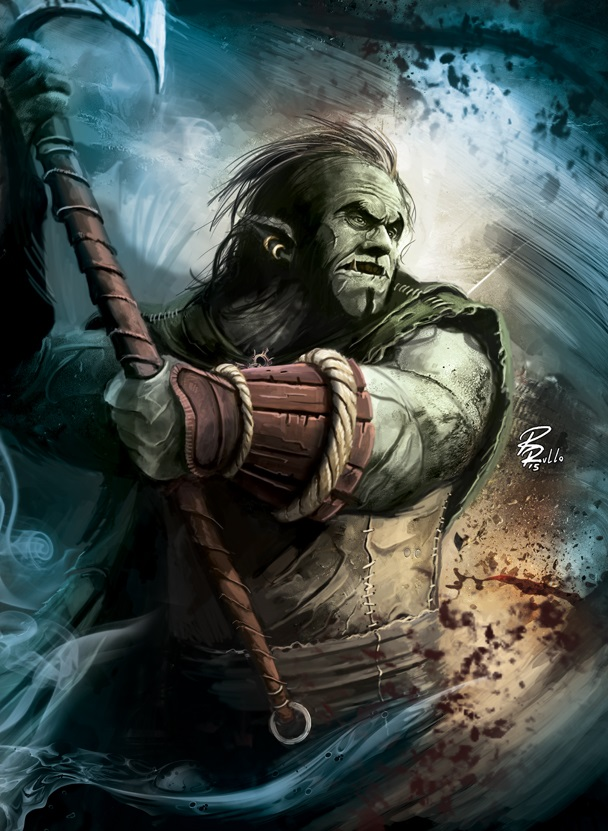
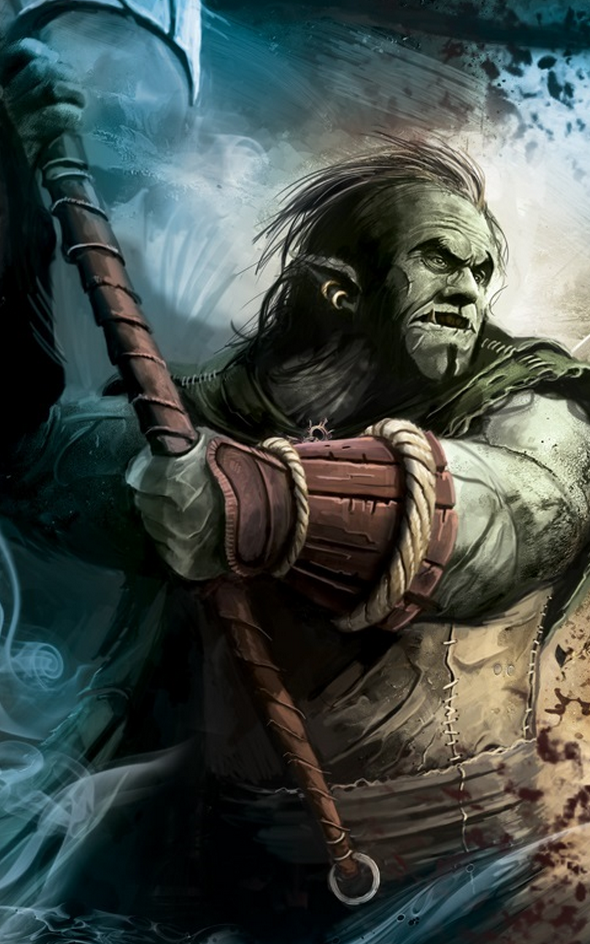
Modifying images for a best rendering

diff --git a/PooP/PooP.GUI/MainWindow.xaml b/PooP/PooP.GUI/MainWindow.xaml
@@ -4,7 +4,7 @@
     xmlns:x="http://schemas.microsoft.com/winfx/2006/xaml"
     xmlns:Interface="clr-namespace:Interface" x:Class="MainWindow"
     x:Name="InitWindow"
-    Title="Choix des races" Height="258.89" Width="292.366" ResizeMode="NoResize">
+    Title="Initialisation de la partie" Height="258.89" Width="290.366" ResizeMode="NoResize">
     <Window.Resources>
         <l:NegateBool x:Key="NegateBool"/>
         <l:ParameterRaceConverter x:Key="ParameterRaceConverter"/>
@@ -23,14 +23,16 @@
             <ColumnDefinition Width="145*"/>
             <ColumnDefinition Width="145*"/>
         </Grid.ColumnDefinitions>
+
+        <!-- Fot the best display, use 590/944 images -->
         <Image Name="ImRace1" Source="{Binding Player1RaceImage}">
             <Image.OpacityMask>
-                <SolidColorBrush Color="Black" Opacity="0.5"/>
+                <SolidColorBrush Color="Black" Opacity="0.6"/>
             </Image.OpacityMask>
         </Image>
         <Image Name="ImRace2" Grid.Column="1" RenderTransformOrigin="0.5,0.5" Source="{Binding Player2RaceImage}">
             <Image.OpacityMask>
-                <SolidColorBrush Color="Black" Opacity="0.5"/>
+                <SolidColorBrush Color="Black" Opacity="0.6"/>
             </Image.OpacityMask>
             <Image.RenderTransform>
                 <TransformGroup>
@@ -41,8 +43,9 @@
                 </TransformGroup>
             </Image.RenderTransform>
         </Image>
+
         <Label Content="Race J1" HorizontalAlignment="Left" VerticalAlignment="Top" FontWeight="Bold" Height="26" Width="52"/>
-        <RadioButton x:Name="Elf1" Content="Elf" HorizontalAlignment="Left" Margin="8,28,0,0" VerticalAlignment="Top" GroupName="Race1" IsEnabled="{Binding IsChecked, Converter={StaticResource NegateBool}, ElementName=Elf2}" Height="16" Width="66" Command="{Binding ChangeRace1}">
+        <RadioButton x:Name="Elf1" Content="Elf" HorizontalAlignment="Left" Margin="8,28,0,0" VerticalAlignment="Top" GroupName="Race1" IsEnabled="{Binding IsChecked, Converter={StaticResource NegateBool}, ElementName=Elf2}" Height="16" Width="66" Command="{Binding ChangeRace1}" Background="{x:Null}">
             <RadioButton.CommandParameter>
                 <MultiBinding Converter="{StaticResource ParameterRaceConverter}">
                     <Binding ElementName="Elf1" Path="Name"/>
@@ -50,7 +53,7 @@
                 </MultiBinding>
             </RadioButton.CommandParameter>
         </RadioButton>
-        <RadioButton x:Name="Human1" Content="Human" HorizontalAlignment="Left" Margin="8,44,0,0" VerticalAlignment="Top" GroupName="Race1" RenderTransformOrigin="0.5,0.5"  IsEnabled="{Binding IsChecked, Converter={StaticResource NegateBool}, ElementName=Human2}" Height="16" Width="66" Command="{Binding ChangeRace1}">
+        <RadioButton x:Name="Human1" Content="Human" HorizontalAlignment="Left" Margin="8,44,0,0" VerticalAlignment="Top" GroupName="Race1" RenderTransformOrigin="0.5,0.5"  IsEnabled="{Binding IsChecked, Converter={StaticResource NegateBool}, ElementName=Human2}" Height="16" Width="66" Command="{Binding ChangeRace1}" Background="{x:Null}">
             <RadioButton.CommandParameter>
                 <MultiBinding Converter="{StaticResource ParameterRaceConverter}">
                     <Binding ElementName="Human1" Path="Name"/>
@@ -58,7 +61,7 @@
                 </MultiBinding>
             </RadioButton.CommandParameter>
         </RadioButton>
-        <RadioButton x:Name="Orc1" Content="Orc" HorizontalAlignment="Left" Margin="8,60,0,0" VerticalAlignment="Top" GroupName="Race1"  IsEnabled="{Binding IsChecked, Converter={StaticResource NegateBool}, ElementName=Orc2}" Height="16" Width="66" Command="{Binding ChangeRace1}">
+        <RadioButton x:Name="Orc1" Content="Orc" HorizontalAlignment="Left" Margin="8,60,0,0" VerticalAlignment="Top" GroupName="Race1"  IsEnabled="{Binding IsChecked, Converter={StaticResource NegateBool}, ElementName=Orc2}" Height="16" Width="66" Command="{Binding ChangeRace1}" Background="{x:Null}">
             <RadioButton.CommandParameter>
                 <MultiBinding Converter="{StaticResource ParameterRaceConverter}">
                     <Binding ElementName="Orc1" Path="Name"/>
@@ -68,7 +71,7 @@
         </RadioButton>
 
         <Label Content="Race J2" Grid.Column="1" HorizontalAlignment="Left" VerticalAlignment="Top" FontWeight="Bold" Grid.ColumnSpan="2" Height="26" Width="52"/>
-        <RadioButton x:Name="Elf2" Content="Elf" HorizontalAlignment="Left" Margin="5,28,0,0" VerticalAlignment="Top" GroupName="Race2" RenderTransformOrigin="0.724,0.25" IsEnabled="{Binding IsChecked, Converter={StaticResource NegateBool}, ElementName=Elf1}" Grid.Column="2" Height="16" Width="67" Command="{Binding ChangeRace2}">
+        <RadioButton x:Name="Elf2" Content="Elf" HorizontalAlignment="Left" Margin="5,28,0,0" VerticalAlignment="Top" GroupName="Race2" RenderTransformOrigin="0.724,0.25" IsEnabled="{Binding IsChecked, Converter={StaticResource NegateBool}, ElementName=Elf1}" Grid.Column="2" Height="16" Width="67" Command="{Binding ChangeRace2}" Background="{x:Null}">
             <RadioButton.CommandParameter>
                 <MultiBinding Converter="{StaticResource ParameterRaceConverter}">
                     <Binding ElementName="Elf2" Path="Name"/>
@@ -76,7 +79,7 @@
                 </MultiBinding>
             </RadioButton.CommandParameter>
         </RadioButton>
-        <RadioButton x:Name="Human2" Content="Human" HorizontalAlignment="Left" Margin="5,44,0,0" VerticalAlignment="Top" GroupName="Race2" RenderTransformOrigin="2.029,0.625" IsEnabled="{Binding IsChecked, Converter={StaticResource NegateBool}, ElementName=Human1}" Grid.Column="2" Height="16" Width="67" Command="{Binding ChangeRace2}">
+        <RadioButton x:Name="Human2" Content="Human" HorizontalAlignment="Left" Margin="5,44,0,0" VerticalAlignment="Top" GroupName="Race2" RenderTransformOrigin="2.029,0.625" IsEnabled="{Binding IsChecked, Converter={StaticResource NegateBool}, ElementName=Human1}" Grid.Column="2" Height="16" Width="67" Command="{Binding ChangeRace2}" Background="{x:Null}">
             <RadioButton.CommandParameter>
                 <MultiBinding Converter="{StaticResource ParameterRaceConverter}">
                     <Binding ElementName="Human2" Path="Name"/>
@@ -84,7 +87,7 @@
                 </MultiBinding>
             </RadioButton.CommandParameter>
         </RadioButton>
-        <RadioButton x:Name="Orc2" Content="Orc" HorizontalAlignment="Left" Margin="5,60,0,0" VerticalAlignment="Top" GroupName="Race2" IsEnabled="{Binding IsChecked, Converter={StaticResource NegateBool}, ElementName=Orc1}" Grid.Column="2" Height="16" Width="67" Command="{Binding ChangeRace2}">
+        <RadioButton x:Name="Orc2" Content="Orc" HorizontalAlignment="Left" Margin="5,60,0,0" VerticalAlignment="Top" GroupName="Race2" IsEnabled="{Binding IsChecked, Converter={StaticResource NegateBool}, ElementName=Orc1}" Grid.Column="2" Height="16" Width="67" Command="{Binding ChangeRace2}" Background="{x:Null}">
             <RadioButton.CommandParameter>
                 <MultiBinding Converter="{StaticResource ParameterRaceConverter}">
                     <Binding ElementName="Orc2" Path="Name"/>
@@ -93,8 +96,8 @@
             </RadioButton.CommandParameter>
         </RadioButton>
 
-        <TextBox x:Name="NameP1" HorizontalAlignment="Left" Height="23" Margin="8,107,0,0" TextWrapping="Wrap" VerticalAlignment="Top" Width="120" ToolTip="Nom du joueur 1" Text="{Binding Player1Name}"/>
-        <TextBox x:Name="NameP2" HorizontalAlignment="Left" Height="23" Margin="5,107,0,0" TextWrapping="Wrap" VerticalAlignment="Top" Width="120" Grid.Column="2" ToolTip="Nom du joueur 2" Text="{Binding Player2Name}"/>
+        <TextBox x:Name="NameP1" HorizontalAlignment="Left" Height="23" Margin="10,107,0,0" TextWrapping="Wrap" VerticalAlignment="Top" Width="122" ToolTip="Nom du joueur 1" Text="{Binding Player1Name}" TextAlignment="Center"/>
+        <TextBox x:Name="NameP2" HorizontalAlignment="Left" Height="23" Margin="10,107,0,0" TextWrapping="Wrap" VerticalAlignment="Top" Width="122" Grid.Column="1" ToolTip="Nom du joueur 2" Text="{Binding Player2Name}" TextAlignment="Center"/>
 
         <Label Content="Name P1" HorizontalAlignment="Left" VerticalAlignment="Top" FontWeight="Bold" Margin="0,81,0,0" Height="26" Width="61"/>
         <Label Content="Name P2" Grid.Column="1" HorizontalAlignment="Left" VerticalAlignment="Top" FontWeight="Bold" Margin="0,81,0,0" Grid.ColumnSpan="2" Height="26" Width="61"/>
